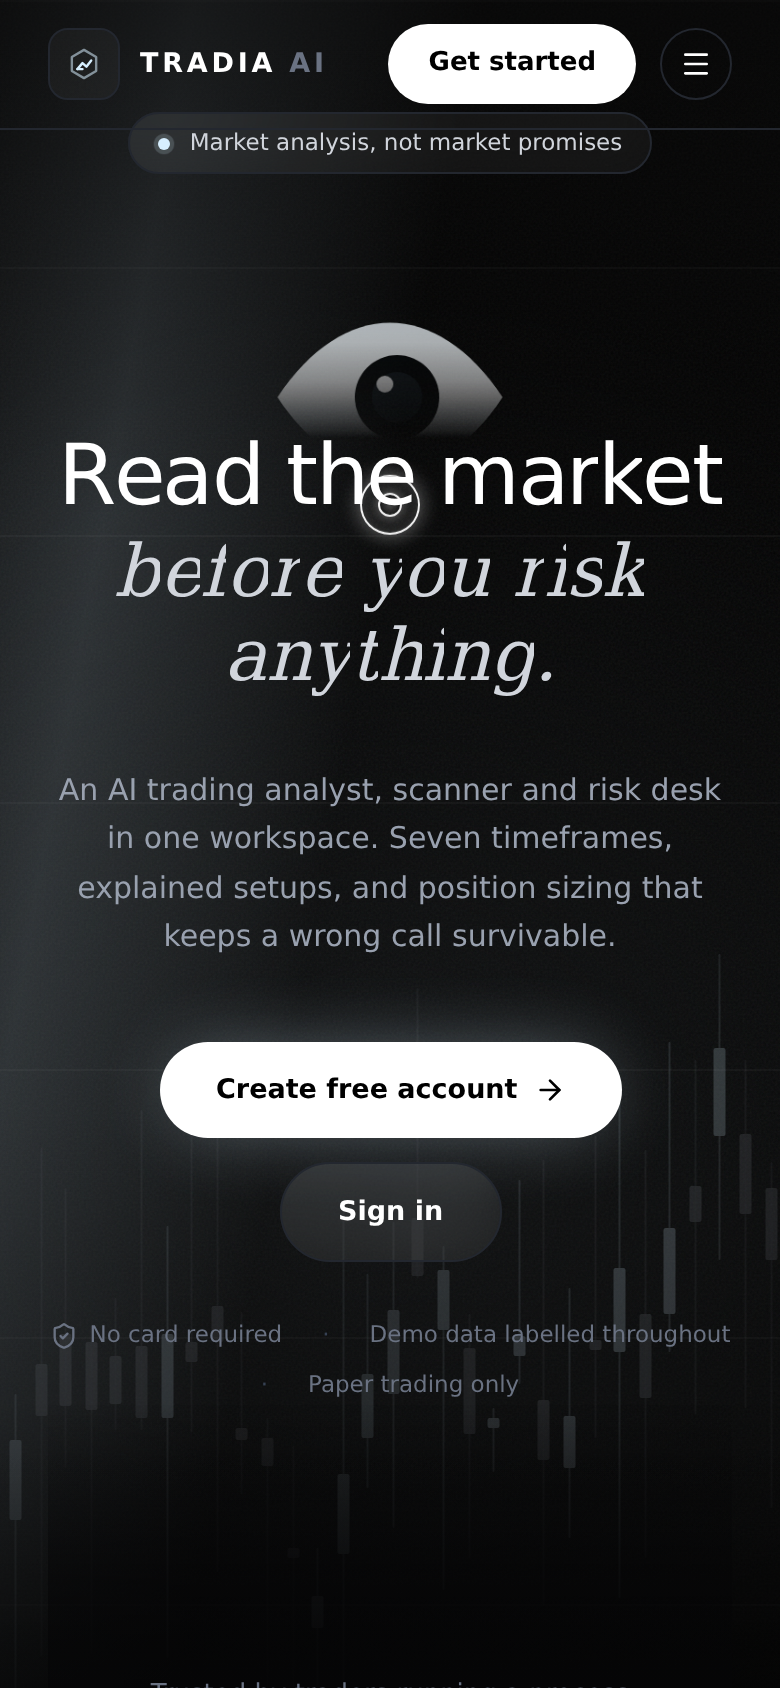
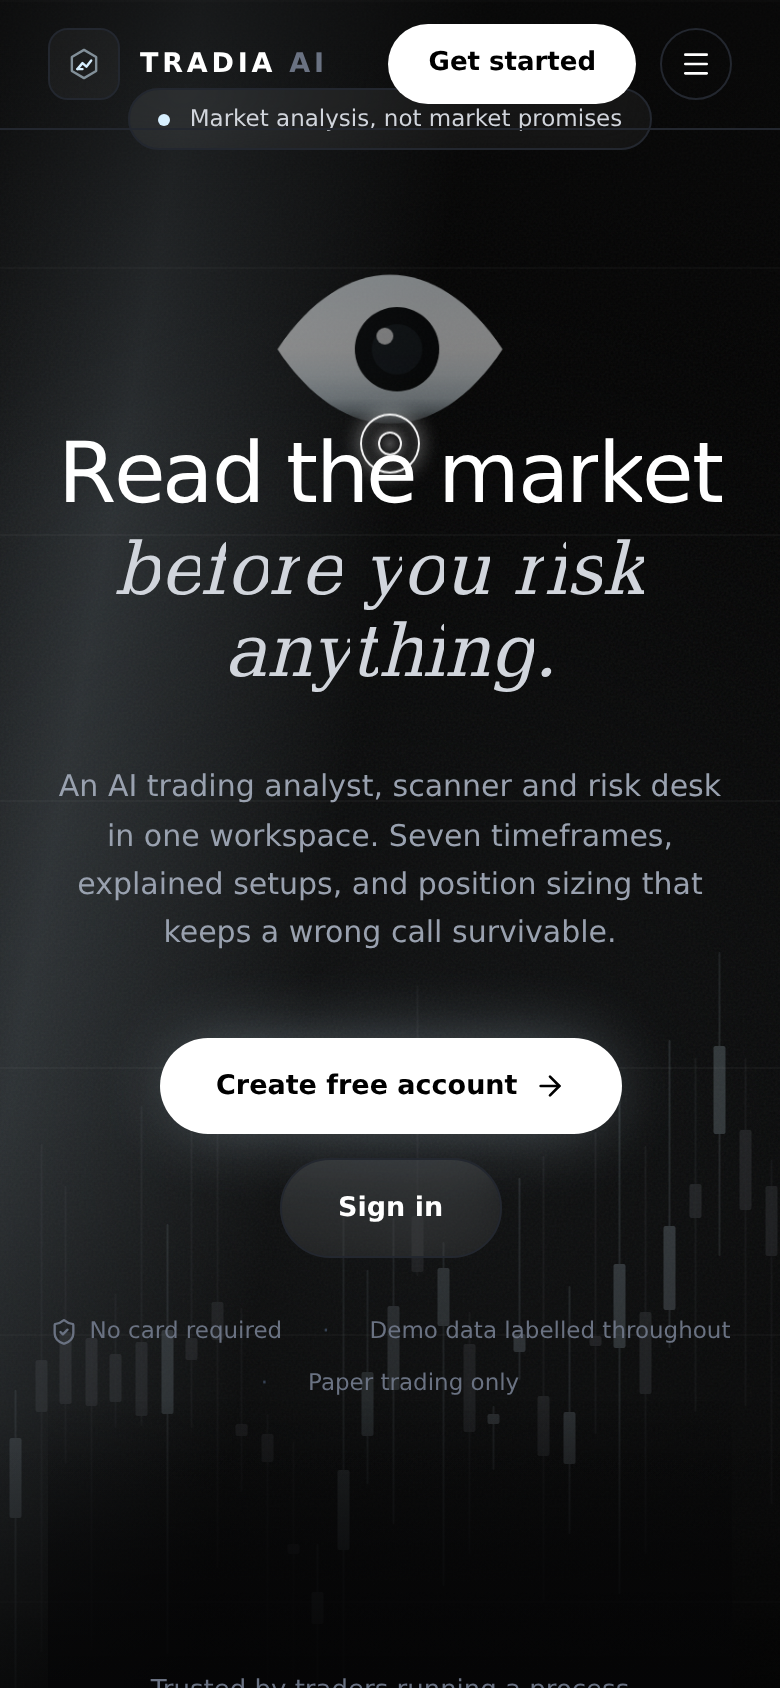
feat(hero): 50% eye, header higher, and an empty lower tenth tucked under the type
- `--eye-alpha` 0.78 → 0.5: the eye now reads at half strength
- hero top padding 56px → 44px, and the eye/zone are derived from the artwork
  instead of guessed, so the headline sits at 261 at 1440×900 (was 263 while
  carrying more padding, 519 before any of this work)
- the fade ramp is now zero for the lowest 10% of the oval (was 30%), and the
  eye is hung so that this empty band lands exactly on the headline's top edge:
  the eye's last inked pixel is 1px above the type at every width, so nothing
  of the eye overlaps a single letter any more

Geometry is derived rather than tuned by hand: zone = 0.602 × eye-size + 14px
(ink above the headline, from the artwork's own coordinates) and the eye's
offset = −0.229 × eye-size (where the ramp reaches zero). Both scale with the
eye, so the relationship holds from 390 to 1920. Eye size 300 → 226px at 1440
to fit above the headline without crossing the badge.

diff --git a/src/components/landing/HeroEye.tsx b/src/components/landing/HeroEye.tsx
@@ -6,10 +6,10 @@ import { armEyeAudio, playBlink, playPop } from "./eye/Sound";
 /**
  * HeroEye — a large eye that lives BEHIND the "Read the market" headline.
  *
- * The eye is not a decoration placed above the type. Its lower portion extends
- * behind the headline and dissolves into the page through a vertical alpha
- * gradient, so the pair reads as one object emerging from behind the typography
- * rather than as a sticker above a heading.
+ * The eye is not a decoration placed above the type. It rises from behind the
+ * headline when hovered — that is what the pop and the retracting pop-down are
+ * for — and when it settles it hangs just above the type, with the lowest tenth
+ * of the artwork empty so the two never touch or smear into each other.
  *
  * ── why the fade is an alpha mask, not a clipped box ────────────────────────
  * A rectangular clip leaves a visible horizontal edge, and on a black page a hard
@@ -197,7 +197,15 @@ export function HeroEye() {
         data-hero-eye
         className="pointer-events-none absolute left-1/2 z-10 -translate-x-1/2 opacity-0"
         style={{
-          bottom: "calc(-0.375 * var(--eye-size))",
+          /*
+             Derived, not eyeballed. In the artwork the oval ends at 248/300 of the
+             SVG's height, the SVG is 0.9375 × eye-size tall, and the alpha ramp
+             hits zero at 220/300 — so hanging the box by 0.229 × eye-size puts
+             that zero-alpha line exactly on the headline's top edge. Everything
+             below it is the invisible tenth, and it is what sits behind the type,
+             so the eye clears "Read the market" by construction at any size.
+          */
+          bottom: "calc(-0.229 * var(--eye-size))",
           width: "var(--eye-size)",
           willChange: "transform, opacity",
         }}
@@ -254,13 +262,14 @@ function EyeArt({
           x2="0"
           y2="248"
         >
-          <stop offset="0" stopColor="#fff" stopOpacity="0.95" />
-          <stop offset="0.22" stopColor="#fff" stopOpacity="0.88" />
-          <stop offset="0.42" stopColor="#fff" stopOpacity="0.62" />
-          <stop offset="0.56" stopColor="#fff" stopOpacity="0.32" />
-          <stop offset="0.66" stopColor="#fff" stopOpacity="0.11" />
-          {/* The lowest 30% of the oval: nothing at all. */}
-          <stop offset="0.70" stopColor="#fff" stopOpacity="0" />
+          <stop offset="0" stopColor="#fff" stopOpacity="1" />
+          <stop offset="0.40" stopColor="#fff" stopOpacity="1" />
+          <stop offset="0.62" stopColor="#fff" stopOpacity="0.97" />
+          <stop offset="0.74" stopColor="#fff" stopOpacity="0.86" />
+          <stop offset="0.80" stopColor="#fff" stopOpacity="0.62" />
+          <stop offset="0.85" stopColor="#fff" stopOpacity="0.30" />
+          {/* The lowest 10% of the oval: nothing at all. */}
+          <stop offset="0.90" stopColor="#fff" stopOpacity="0" />
           <stop offset="1" stopColor="#fff" stopOpacity="0" />
         </linearGradient>
         {/*

diff --git a/src/components/landing/Hero.tsx b/src/components/landing/Hero.tsx
@@ -61,7 +61,7 @@ export function Hero() {
          the headline off the top of the screen. Starting from the top instead
          means every offset below is measured from a known edge.
       */
-      className="relative z-0 flex min-h-screen flex-col items-center justify-start overflow-hidden px-6 pb-20 pt-14"
+      className="relative z-0 flex min-h-screen flex-col items-center justify-start overflow-hidden px-6 pb-20 pt-11"
     >
       {/* 1 — interactive candle field: the artwork, and the subject */}
       <div
@@ -137,19 +137,22 @@ export function Hero() {
                  the headline, so the headline sits exactly one eye above nothing —
                  no dead air.
               */
-              "--eye-alpha": "0.78",
-              "--eye-size": "clamp(150px, 22vw, 300px)",
+              "--eye-alpha": "0.5",
+              "--eye-size": "clamp(150px, 16vw, 226px)",
               /*
-                 `--eye-zone` is only the room ABOVE the headline. The eye hangs
-                 exactly 40% of its height below the headline's top edge (see
-                 HeroEye), so the zone carries the other 60%: the eye's rendered
-                 height is 0.9375 × eye-size and the artwork has ~11% empty space
-                 above the oval, so the zone is eye-size × 0.9375 × 0.6, rounded —
-                 0.5625 × eye-size. Sized any larger it is dead air that pushes the
-                 headline down, which is the bug being fixed; any smaller and the
-                 eye's top edge collides with the badge.
+                 `--eye-zone` is derived from the eye rather than guessed, because
+                 the eye and the headline are now stacked without touching and the
+                 gap between them has to come out to exactly the artwork's own
+                 empty band. In the artwork's coordinates (viewBox 300 tall) the
+                 oval runs y 34…248 and the alpha ramp is zero below y≈220, so of
+                 the eye's rendered height (0.9375 × eye-size) only 0.602 of
+                 eye-size ever carries ink above the headline. The zone is that
+                 plus 14px, which leaves the eye's bottom tenth sitting exactly
+                 where "Read the market" begins — the band is invisible, so the eye
+                 appears to rise out of the type without a single letter dimmed.
+                 Bigger zones are dead air that pushes the header down.
               */
-              "--eye-zone": "clamp(94px, 9.8vw, 140px)",
+              "--eye-zone": "calc(0.602 * var(--eye-size) + 14px)",
               "--headline-h": "clamp(52px, 6.7vw, 100px)",
             } as React.CSSProperties
           }
